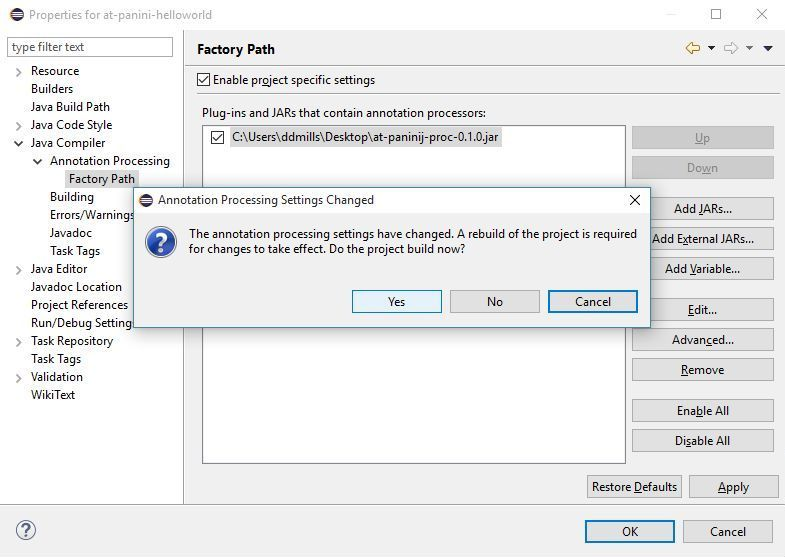
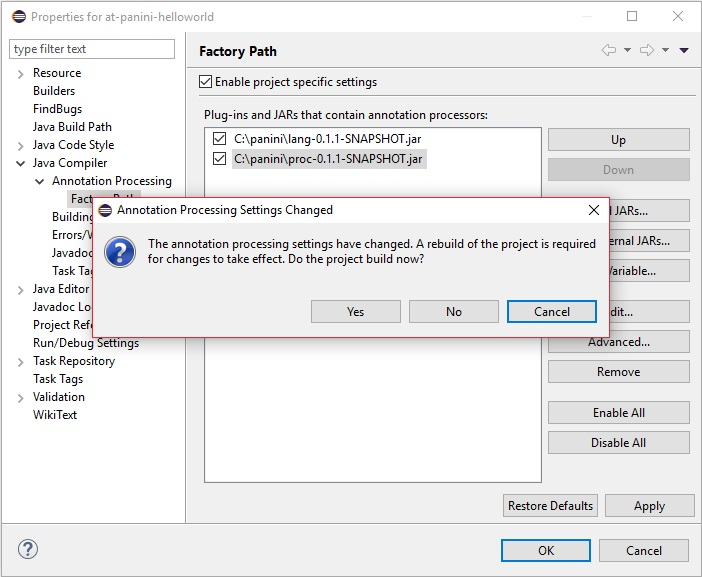
Update @Paninij Eclipse setup guide

Changed region(s): [[0.0, 0.0, 1.0, 1.0]]

diff --git a/site/src/css/paninij.scss b/site/src/css/paninij.scss
@@ -75,3 +75,7 @@ ol#markdown-toc {
   display: flex;
   justify-content: space-between;
 }
+
+h3 {
+  margin-top: 2rem;
+}

diff --git a/site/src/_setups/eclipse.md b/site/src/_setups/eclipse.md
@@ -8,9 +8,9 @@ These are the overall steps to setting up an @PaniniJ project in Eclipse:
 1. TOC
 {:toc}
 
-### Step 1: Setup project to use JRE 1.7 or Greater
+### Step 1: Setup project to use JRE 1.8 or greater
 
-When you create a new project, be sure to choose JRE 1.7 or greater, this is
+When you create a new project, be sure to choose JRE 1.8 or greater, this is
 necessary for the annotation processing to work correctly.
 
 <div class="row">
@@ -24,8 +24,8 @@ necessary for the annotation processing to work correctly.
 
 ### Step 2: Download the at-paninij jar
 
-Download the latest processor (at-paninij-proc-v0.1.0.jar) from the github
-releases page.
+Download the @Paninij release from the github releases page. You should have
+received two JAR files (proc-0.1.1-SNAPSHOT.jar and lang-0.1.1-SNAPSHOT.jar).
 
 ### Step 3: Enable Annotation Processing
 
@@ -63,8 +63,8 @@ checkbox, and click the Add External JARs… button.
 </div>
 </div>
 
-Browse to where you have downloaded the JAR file from step 2. Hit Apply and
-confirm the project rebuild.
+Browse to where you have downloaded the JAR files from step 2. Select both of
+the JAR files and click ok. Finally, hit Apply and confirm the project rebuild.
 
 <div class="row">
 <div class="col-md-10 offset-md-1">
@@ -77,9 +77,10 @@ confirm the project rebuild.
 
 ### Step 5: Add the at-paninij as a referenced library
 
-The @PaniniJ JAR file includes code necessary for the annotation processing and
-runtime. To include the JAR file as a referenced libaray, right click the
-project in the project explorer, and choose "Add External Archives…".
+The @PaniniJ JAR files includes code necessary for the annotation processing
+and runtime. To include the JAR files as a referenced libaray, right click the
+project in the project explorer, go to "Build Path", and choose "Add External
+Archives…".
 
 <div class="row">
 <div class="col-md-10 offset-md-1">
@@ -90,9 +91,9 @@ project in the project explorer, and choose "Add External Archives…".
 </div>
 
 
-Browse to where you downloaded the JAR file from step 2, and include it in your
-project. Once it is included, the project should appear like this in the Eclipse
-project explorer:
+Browse to where you downloaded the JAR files from step 2, and include them in
+your project. Once it is included, the project should appear like this in the
+Eclipse project explorer:
 
 <div class="row">
 <div class="col-md-10 offset-md-1">
@@ -102,5 +103,6 @@ project explorer:
 </div>
 </div>
 
-Now you're ready to start programming in @PaniniJ. See the next page for an
-example @PaniniJ Hello World program.
+Now you're ready to start programming in @PaniniJ. See
+[this page]({{ site.baseurl }}/docs/examples/hello_world.html)
+for an example @PaniniJ Hello World program.

diff --git a/README.md b/README.md
@@ -1,7 +1,7 @@
 @PaniniJ
 ----------
 
-[![Build Status](https://travis-ci.org/hridesh/panini.svg?branch=gradle%2Ftravis-ci)](https://travis-ci.org/hridesh/panini)
+[![Build Status](https://travis-ci.org/paninij/paninij.svg?branch=master)](https://travis-ci.org/paninij/paninij)
 
 A realization of Panini via Java compiler plugins. Panini is a capsule-oriented
 programming model, which introduces a new programming abstraction, *the
